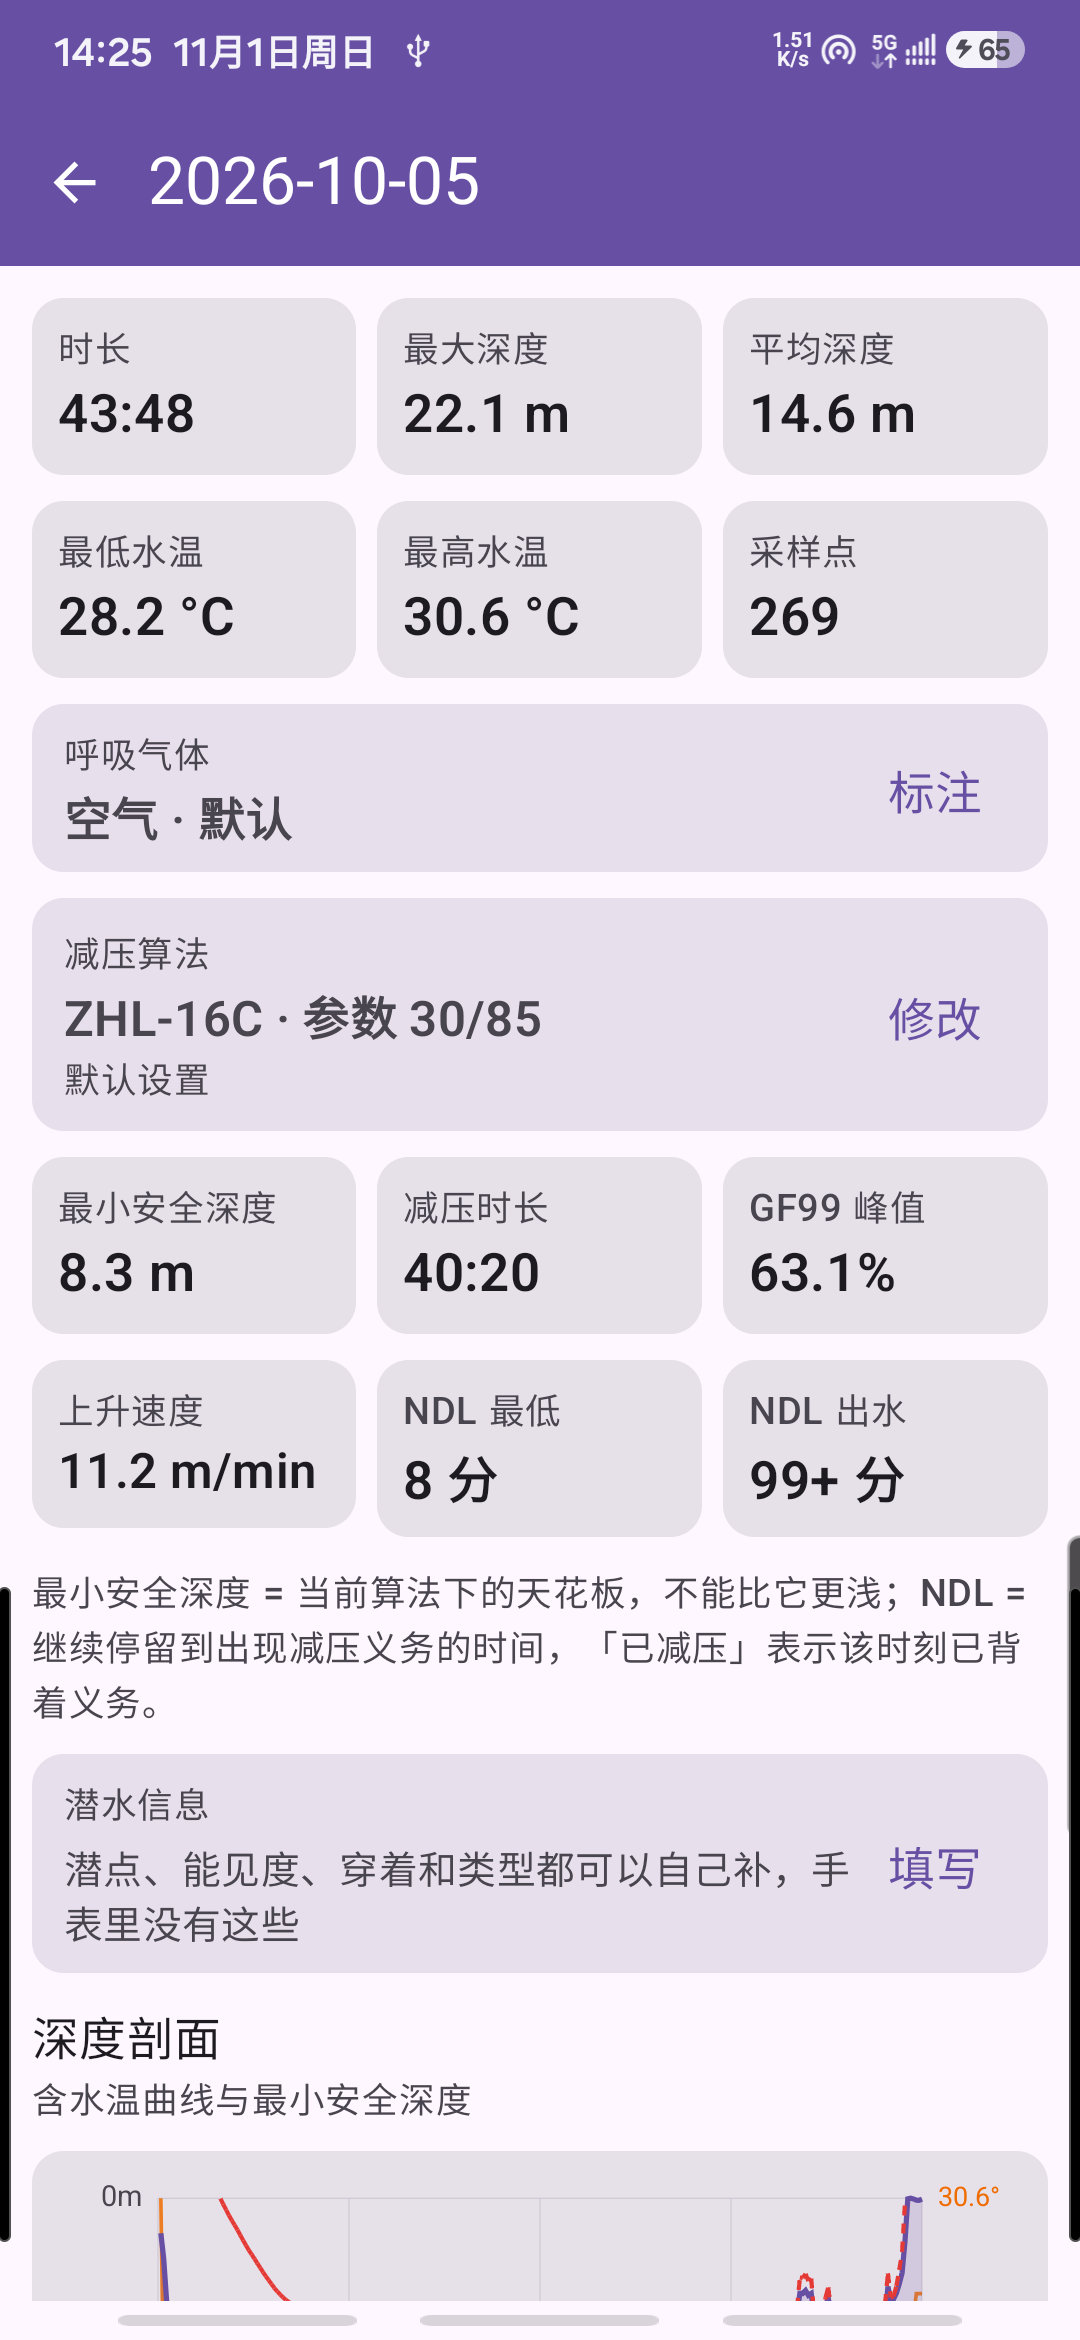
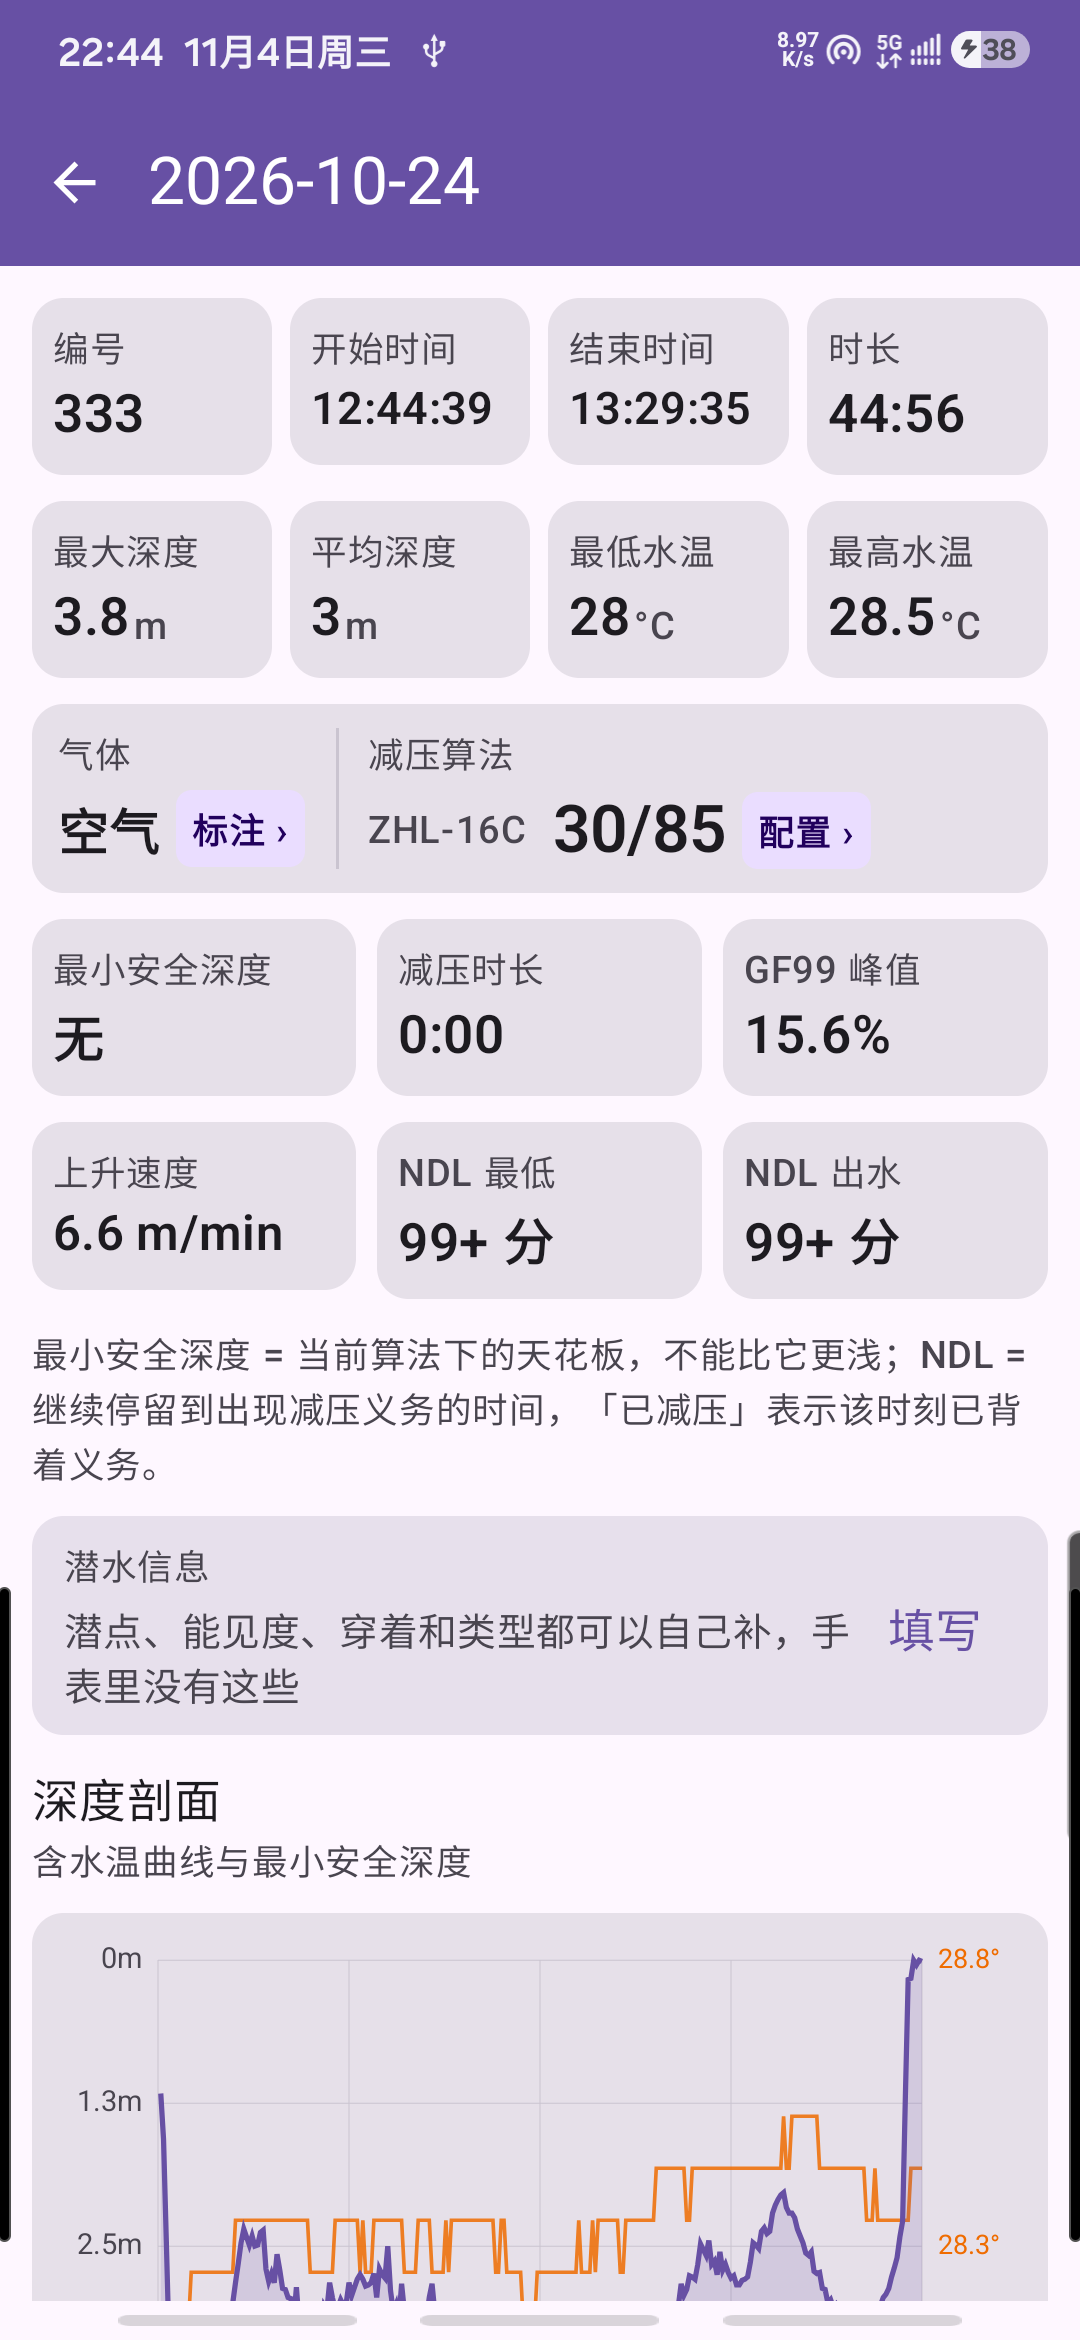
docs: 详情页配图换真机新版截图，README 同步新版式

diff --git a/README.md b/README.md
@@ -58,7 +58,7 @@
 | 数据解析 | libdivecomputer 的 `deepsix_excursion` 解析器经 NDK 编译，JNI 输出 JSON                                              |
 | 日志列表 | 年份筛选、收藏筛选、顶栏联动统计、多选合并与批量删除（作用域 = 当前筛选结果）                                                                    |
 | 回收站  | 删除只打 `user_deleted` 标记，原始记录与采样点都还在；可单条/多选/全部恢复，**不提供彻底删除**                                                 |
-| 单次详情 | 剖面 + 水温曲线、最大/平均深度、温度极值、**最小安全深度**、**NDL 剩余**、**GF99** 曲线、呼吸气体标注、GF 就地调；曲线上方是**潜水信息**（潜点、能见度、湿衣/干衣、地形与水域多选） |
+| 单次详情 | 顶部两栏指标（编号 / 开始 / 结束 / 时长，最大 / 平均深度与最低 / 最高水温）；呼吸气体与减压算法并排一张卡，各自就地标注与配置；再往下是最小安全深度、NDL 剩余、GF99 与上升速度；剖面 + 水温曲线，其上为**潜水信息**（潜点、能见度、湿衣/干衣、地形与水域多选） |
 | 设置   | 合并阈值、垃圾阈值、GF 两个值直配（默认 30/85）、默认气体、同步默认模式、回收站入口                                                             |
 | 统计   | 年度/月度潜次、深度与时长直方图、水面间隔分布                                                                                    |
 | 文件导入 | SAF 多选 `.bin`，指纹去重，落库后与已有数据合并展示                                                                            |

diff --git a/README.en.md b/README.en.md
@@ -71,7 +71,7 @@ The compatibility table below has the finer boundaries.
 | Parsing | libdivecomputer's `deepsix_excursion` parser built via NDK, exposed as JSON over JNI |
 | Dive list | Year filter, favourites, header stats, multi-select merge & batch delete (scoped to the current filter) |
 | Recycle bin | Delete only sets `user_deleted`; records and samples stay. Restore one/many/all — **no permanent delete** |
-| Dive detail | Profile + temperature, max/avg depth, temperature extremes, **min safe depth**, **NDL remaining**, **GF99** curves, gas annotation, in-place GF editing; above the charts sits a **dive info** card (site, visibility, wetsuit/drysuit, terrain & water tags) |
+| Dive detail | Two metric rows up top (number / start / end / duration, max & avg depth with min & max water temp); gas and deco algorithm share one card, each with its own annotate/configure action; then min safe depth, NDL remaining, GF99 and ascent rate; profile + temperature chart, with the **dive info** card above it (site, visibility, wetsuit/drysuit, terrain & water tags) |
 | Settings | Merge threshold, junk thresholds, direct GF pair (default 30/85), default gas, default sync mode, recycle-bin entry |
 | Statistics | Yearly/monthly counts, depth & duration histograms, surface-interval distribution |
 | File import | Multi-select `.bin` via SAF, fingerprint dedupe, merged with existing data |
